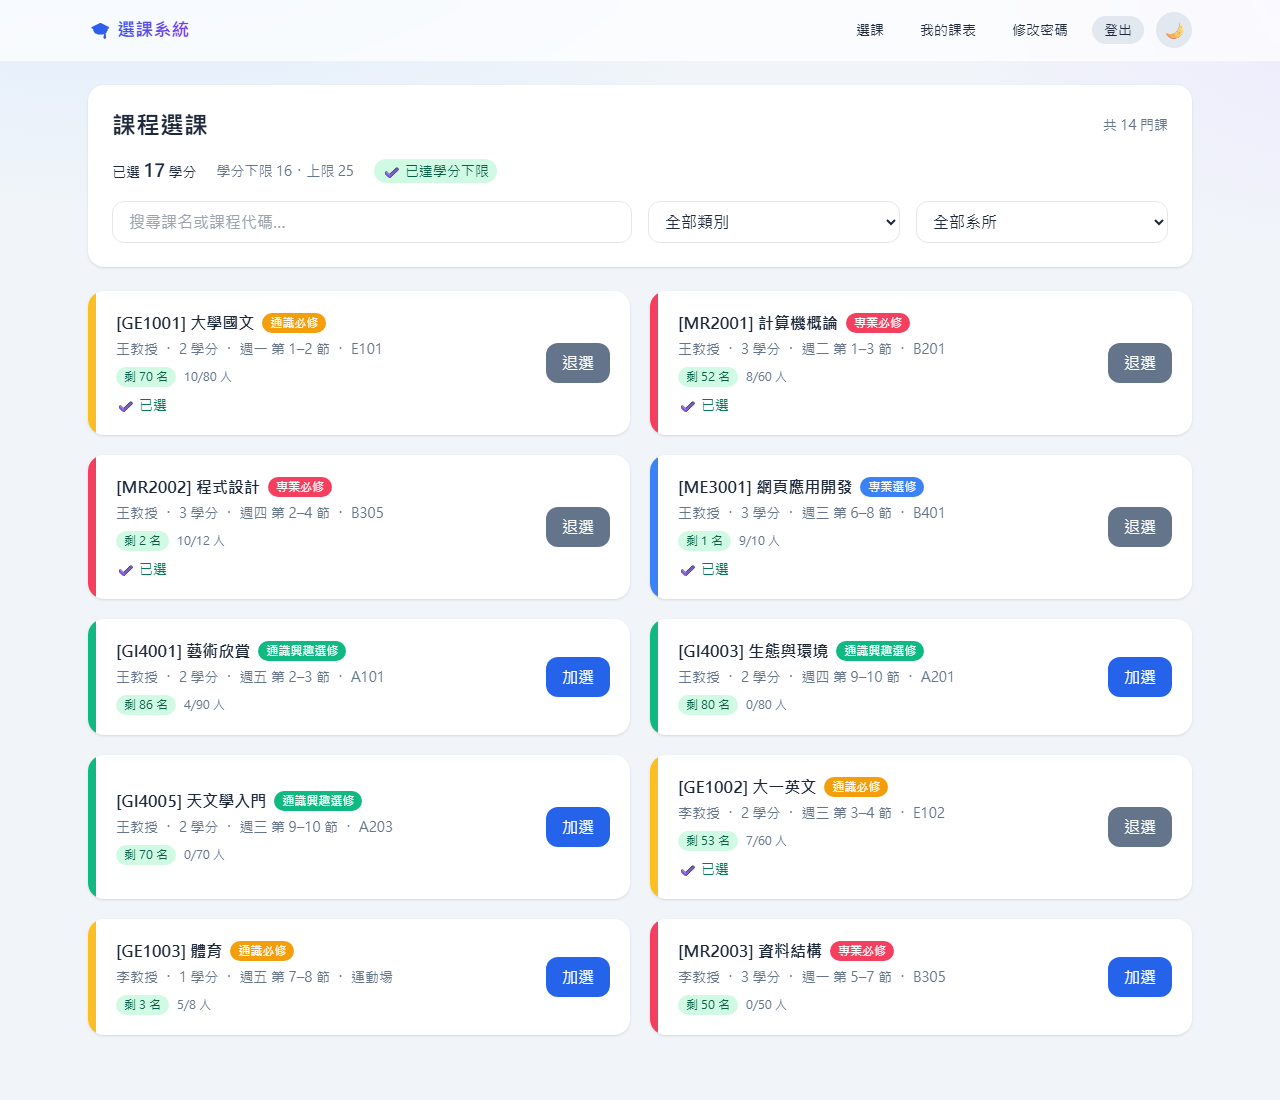
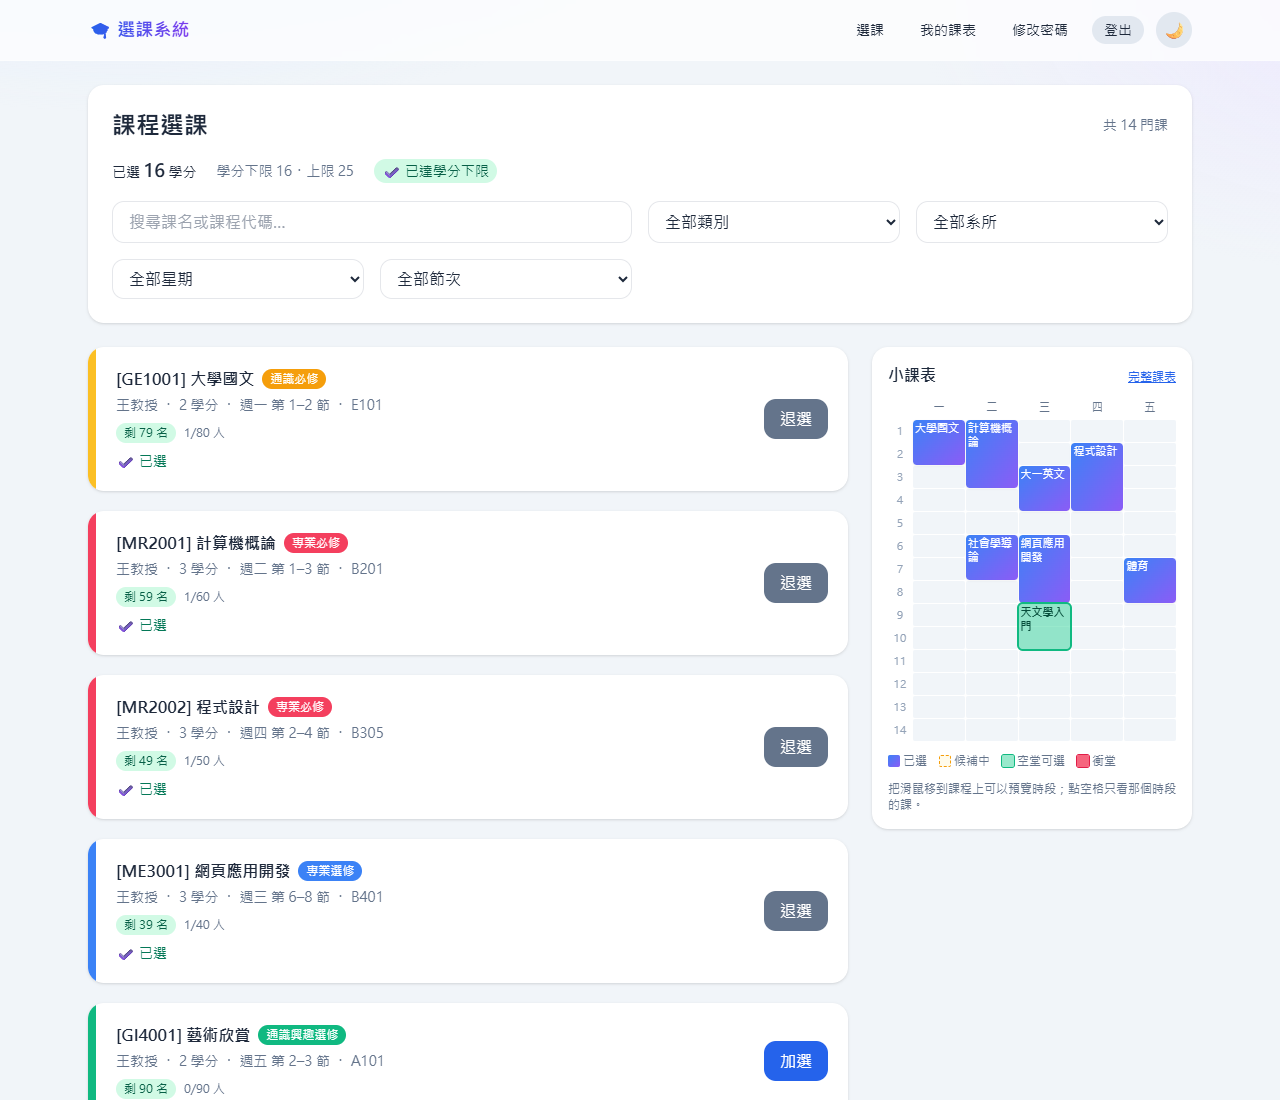
Add mini timetable and weekday/period filters to course selection
The course list now has a small weekly timetable beside it showing
enrolled and waitlisted courses. Hovering a course previews its time
slot (green when free, red when it clashes), clicking an empty slot
filters the list to that weekday and period, and clicking a course
block scrolls to its card. New weekday and period dropdowns filter
the list directly.

diff --git a/courses/templates/courses/course_list.html b/courses/templates/courses/course_list.html
@@ -31,9 +31,9 @@
       </div>
     </div>
 
-    <div class="grid md:grid-cols-4 gap-4">
+    <div class="grid grid-cols-2 md:grid-cols-4 gap-4">
       <input id="search" type="text" placeholder="搜尋課名或課程代碼…"
-             class="md:col-span-2 border dark:border-slate-600 dark:bg-slate-700 rounded-xl px-4 py-2 focus:outline-none focus:ring-2 focus:ring-blue-500">
+             class="col-span-2 border dark:border-slate-600 dark:bg-slate-700 rounded-xl px-4 py-2 focus:outline-none focus:ring-2 focus:ring-blue-500">
       <select id="filter-category"
               class="border dark:border-slate-600 dark:bg-slate-700 rounded-xl px-3 py-2">
         <option value="">全部類別</option>
@@ -49,6 +49,24 @@
         {% if group.grouper %}<option value="{{ group.grouper }}">{{ group.grouper }}</option>{% endif %}
         {% endfor %}
       </select>
+      {# 星期與節次：點小課表的空格也會自動帶入 #}
+      <select id="filter-weekday" aria-label="星期"
+              class="border dark:border-slate-600 dark:bg-slate-700 rounded-xl px-3 py-2">
+        <option value="">全部星期</option>
+        {% for day, label in weekday_labels %}
+        <option value="{{ day }}">{{ label }}</option>
+        {% endfor %}
+      </select>
+      <select id="filter-period" aria-label="節次"
+              class="border dark:border-slate-600 dark:bg-slate-700 rounded-xl px-3 py-2">
+        <option value="">全部節次</option>
+        {% for period in periods %}
+        <option value="{{ period.number }}">第 {{ period.number }} 節{% if period.start %}（{{ period.start|time:"H:i" }}–{{ period.end|time:"H:i" }}）{% endif %}</option>
+        {% endfor %}
+      </select>
+      <div id="filter-clear-row" class="hidden col-span-2 flex items-center">
+        <button type="button" id="filter-clear" class="text-sm text-blue-600 dark:text-blue-400 underline">清除全部篩選</button>
+      </div>
     </div>
 
     <p id="empty-hint" class="hidden text-slate-500">沒有符合條件的課程。</p>
@@ -56,7 +74,9 @@
 
   <div id="toast-area" class="fixed top-24 right-4 z-50 space-y-2 w-80"></div>
 
-  <div id="course-list" class="grid md:grid-cols-2 gap-5">
+  <div class="grid lg:grid-cols-[minmax(0,1fr)_20rem] gap-6 items-start">
+
+  <div id="course-list" class="grid md:grid-cols-2 lg:grid-cols-1 gap-5">
     {% for course in courses %}
     <div id="course-{{ course.id }}"
          class="course-card scroll-mt-28 animate-fade-up card-hover relative overflow-hidden bg-white dark:bg-slate-800 rounded-2xl shadow p-5 pl-7 flex flex-wrap gap-4 justify-between items-center"
@@ -64,6 +84,10 @@
          data-code="{{ course.code }}"
          data-category="{{ course.get_category_display }}"
          data-department="{{ course.department }}"
+         data-weekday="{{ course.weekday }}"
+         data-start="{{ course.start_period }}"
+         data-end="{{ course.end_period }}"
+         data-status="{{ course.status }}"
          style="animation-delay: {{ forloop.counter0 }}0ms;">
       <span class="absolute left-0 top-0 bottom-0 w-2
         {% if course.category == 'ge_required' %}bg-amber-400
@@ -126,6 +150,59 @@
     {% endfor %}
   </div>
 
+  {# 小課表：已選與候補中的課程；手機上顯示在課程清單上方，電腦上固定在右側 #}
+  <aside id="mini-timetable" aria-labelledby="mini-title"
+         class="order-first lg:order-none lg:sticky lg:top-20 bg-white dark:bg-slate-800 rounded-2xl shadow p-4 space-y-3">
+    <div class="flex justify-between items-baseline">
+      <h2 id="mini-title" class="font-semibold">小課表</h2>
+      <a href="{% url 'my_timetable' %}" class="text-xs text-blue-600 dark:text-blue-400 underline">完整課表</a>
+    </div>
+
+    <div id="mini-grid" class="grid gap-px text-[11px]"
+         style="grid-template-columns: 1.5rem repeat({{ weekday_labels|length }}, minmax(0, 1fr)); grid-template-rows: 1.25rem repeat({{ periods|length }}, 1.375rem);">
+      {% for day, label in weekday_labels %}
+      <div class="text-center text-slate-500 dark:text-slate-400" style="grid-row: 1; grid-column: {{ day|add:1 }};">{{ label|slice:"1:" }}</div>
+      {% endfor %}
+
+      {% for period in periods %}
+      <div class="text-center leading-[1.375rem] tabular-nums text-slate-400"
+           style="grid-row: {{ period.number|add:1 }}; grid-column: 1;"
+           {% if period.start %}title="{{ period.start|time:'H:i' }}–{{ period.end|time:'H:i' }}"{% endif %}>{{ period.number }}</div>
+      {% for day, label in weekday_labels %}
+      <button type="button"
+              class="mini-slot rounded-sm bg-slate-100 dark:bg-slate-700/50 hover:bg-blue-100 dark:hover:bg-slate-600"
+              data-day="{{ day }}" data-period="{{ period.number }}"
+              style="grid-row: {{ period.number|add:1 }}; grid-column: {{ day|add:1 }};"
+              aria-label="{{ label }}第 {{ period.number }} 節：只顯示這個時段的課程"></button>
+      {% endfor %}
+      {% endfor %}
+
+      {% for course in mini_courses %}
+      <a href="#course-{{ course.id }}"
+         class="mini-block z-10 overflow-hidden rounded px-0.5 py-0.5 leading-tight
+                {% if course.status == 'enrolled' %}bg-gradient-to-br from-blue-500 to-violet-500 text-white shadow-sm
+                {% else %}border border-dashed border-amber-500 bg-amber-50 text-amber-800 dark:bg-amber-900/40 dark:text-amber-200{% endif %}"
+         data-day="{{ course.weekday }}" data-start="{{ course.start_period }}" data-end="{{ course.end_period }}"
+         data-status="{{ course.status }}"
+         style="grid-column: {{ course.weekday|add:1 }}; grid-row: {{ course.start_period|add:1 }} / {{ course.end_period|add:2 }};"
+         title="[{{ course.code }}] {{ course.name }}・{{ course.time_label }}{% if course.status == 'waiting' %}・候補第 {{ course.position }} 位{% endif %}">{{ course.name }}</a>
+      {% endfor %}
+
+      {# 滑鼠移到課程卡片上時，預覽該課程的時段 #}
+      <div id="mini-preview" class="hidden"></div>
+    </div>
+
+    <div class="flex flex-wrap gap-x-3 gap-y-1 text-xs text-slate-500 dark:text-slate-400">
+      <span><span class="inline-block w-3 h-3 align-[-2px] rounded-sm bg-gradient-to-br from-blue-500 to-violet-500"></span> 已選</span>
+      <span><span class="inline-block w-3 h-3 align-[-2px] rounded-sm border border-dashed border-amber-500 bg-amber-50 dark:bg-amber-900/40"></span> 候補中</span>
+      <span><span class="inline-block w-3 h-3 align-[-2px] rounded-sm bg-emerald-400/50 ring-1 ring-emerald-500"></span> 空堂可選</span>
+      <span><span class="inline-block w-3 h-3 align-[-2px] rounded-sm bg-rose-500/80 ring-1 ring-rose-600"></span> 衝堂</span>
+    </div>
+    <p class="text-xs text-slate-500 dark:text-slate-400">把滑鼠移到課程上可以預覽時段；點空格只看那個時段的課。</p>
+  </aside>
+
+  </div>
+
 </div>
 
 <script>
@@ -133,12 +210,18 @@
   const searchInput = document.getElementById("search");
   const categorySelect = document.getElementById("filter-category");
   const departmentSelect = document.getElementById("filter-department");
+  const weekdaySelect = document.getElementById("filter-weekday");
+  const periodSelect = document.getElementById("filter-period");
+  const clearButton = document.getElementById("filter-clear");
+  const filterInputs = [searchInput, categorySelect, departmentSelect, weekdaySelect, periodSelect];
   const emptyHint = document.getElementById("empty-hint");
 
   function applyFilter() {
     const keyword = searchInput.value.trim().toLowerCase();
     const category = categorySelect.value;
     const department = departmentSelect.value;
+    const weekday = weekdaySelect.value;
+    const period = Number(periodSelect.value);
     let visible = 0;
     document.querySelectorAll(".course-card").forEach((card) => {
       const matchKeyword = !keyword
@@ -146,16 +229,121 @@
         || card.dataset.code.toLowerCase().includes(keyword);
       const matchCategory = !category || card.dataset.category === category;
       const matchDept = !department || card.dataset.department === department;
-      const show = matchKeyword && matchCategory && matchDept;
+      const matchWeekday = !weekday || card.dataset.weekday === weekday;
+      // 跨多節的課，只要其中一節是所選節次就符合
+      const matchPeriod = !period
+        || (Number(card.dataset.start) <= period && period <= Number(card.dataset.end));
+      const show = matchKeyword && matchCategory && matchDept && matchWeekday && matchPeriod;
       card.classList.toggle("hidden", !show);
       if (show) visible++;
     });
     emptyHint.classList.toggle("hidden", visible > 0);
+    document.getElementById("filter-clear-row")
+      .classList.toggle("hidden", filterInputs.every((el) => !el.value.trim()));
+    markSelectedSlots();
+  }
+
+  function clearFilters() {
+    filterInputs.forEach((el) => { el.value = ""; });
+    applyFilter();
   }
 
   searchInput.addEventListener("input", applyFilter);
-  categorySelect.addEventListener("change", applyFilter);
-  departmentSelect.addEventListener("change", applyFilter);
+  [categorySelect, departmentSelect, weekdaySelect, periodSelect].forEach((el) =>
+    el.addEventListener("change", applyFilter));
+  clearButton.addEventListener("click", clearFilters);
+
+  // ---------- 小課表 ----------
+
+  const MATCHED_SLOT = ["!bg-blue-200", "dark:!bg-blue-800/70"];
+  const SELECTED_SLOT = ["ring-2", "ring-blue-500"];
+
+  // 在小課表上標出篩選的時段：只選星期標整欄、只選節次標整列、兩個都選標單一格
+  function markSelectedSlots() {
+    const day = Number(weekdaySelect.value);
+    const period = Number(periodSelect.value);
+    document.querySelectorAll(".mini-slot").forEach((slot) => {
+      const matched = Boolean(day || period)
+        && (!day || Number(slot.dataset.day) === day)
+        && (!period || Number(slot.dataset.period) === period);
+      const selected = Boolean(day && period) && matched;
+      MATCHED_SLOT.forEach((cls) => slot.classList.toggle(cls, matched));
+      SELECTED_SLOT.forEach((cls) => slot.classList.toggle(cls, selected));
+      slot.setAttribute("aria-pressed", selected ? "true" : "false");
+    });
+  }
+
+  const PREVIEW_STYLES = {
+    free: "bg-emerald-400/50 ring-2 ring-emerald-500 text-emerald-900 dark:text-emerald-50",
+    clash: "bg-rose-500/80 ring-2 ring-rose-600 text-white",
+    self: "ring-2 ring-offset-1 ring-blue-400 dark:ring-offset-slate-800",
+    waiting: "ring-2 ring-offset-1 ring-amber-400 dark:ring-offset-slate-800",
+  };
+  let previewCard = null;
+
+  // 在小課表上預覽一門課的時段：空堂顯示綠色，和已選課程重疊顯示紅色
+  function showPreview(card) {
+    const preview = document.getElementById("mini-preview");
+    const day = Number(card.dataset.weekday);
+    const start = Number(card.dataset.start);
+    const end = Number(card.dataset.end);
+    let kind = card.dataset.status === "enrolled" ? "self"
+      : card.dataset.status === "waiting" ? "waiting" : "free";
+    if (kind === "free") {
+      const clash = [...document.querySelectorAll('.mini-block[data-status="enrolled"]')].some((block) =>
+        Number(block.dataset.day) === day
+        && Number(block.dataset.start) <= end && start <= Number(block.dataset.end));
+      if (clash) kind = "clash";
+    }
+    preview.className = "pointer-events-none z-20 overflow-hidden rounded px-0.5 py-0.5 leading-tight font-semibold "
+      + PREVIEW_STYLES[kind];
+    preview.style.gridColumn = String(day + 1);
+    preview.style.gridRow = `${start + 1} / ${end + 2}`;
+    preview.textContent = kind === "clash" ? "衝堂" : kind === "free" ? card.dataset.name : "";
+    previewCard = card;
+  }
+
+  function hidePreview() {
+    document.getElementById("mini-preview").className = "hidden";
+    previewCard = null;
+  }
+
+  document.addEventListener("mouseover", (event) => {
+    const card = event.target.closest(".course-card");
+    if (card === previewCard) return;
+    if (card) showPreview(card);
+    else hidePreview();
+  });
+  document.addEventListener("focusin", (event) => {
+    const card = event.target.closest(".course-card");
+    if (card && card !== previewCard) showPreview(card);
+  });
+  document.addEventListener("focusout", (event) => {
+    if (previewCard && !previewCard.contains(event.relatedTarget)) hidePreview();
+  });
+
+  document.addEventListener("click", (event) => {
+    // 點空格：帶入該格的星期與節次篩選，再點一次取消
+    const slot = event.target.closest(".mini-slot");
+    if (slot) {
+      const same = weekdaySelect.value === slot.dataset.day && periodSelect.value === slot.dataset.period;
+      weekdaySelect.value = same ? "" : slot.dataset.day;
+      periodSelect.value = same ? "" : slot.dataset.period;
+      applyFilter();
+      return;
+    }
+    // 點課程色塊：捲到該課程卡片；卡片被篩選藏起來時先清除篩選
+    const block = event.target.closest(".mini-block");
+    if (block) {
+      const card = document.querySelector(block.getAttribute("href"));
+      if (!card) return;
+      event.preventDefault();
+      if (card.classList.contains("hidden")) clearFilters();
+      card.scrollIntoView({ behavior: "smooth", block: "center" });
+      card.classList.add("ring-4", "ring-blue-400");
+      setTimeout(() => card.classList.remove("ring-4", "ring-blue-400"), 1500);
+    }
+  });
 
   function showToast(message, ok) {
     const area = document.getElementById("toast-area");
@@ -177,12 +365,17 @@
     const res = await fetch(window.location.pathname);
     if (!res.ok) return;
     const doc = new DOMParser().parseFromString(await res.text(), "text/html");
-    for (const id of ["course-list", "enroll-summary"]) {
+    const hoveredId = previewCard && previewCard.id;
+    for (const id of ["course-list", "enroll-summary", "mini-timetable"]) {
       const fresh = doc.getElementById(id);
       if (fresh) document.getElementById(id).replaceWith(fresh);
     }
     document.querySelectorAll(".course-card").forEach((card) => card.classList.remove("animate-fade-up"));
     applyFilter();
+    // 剛按下按鈕的卡片還在滑鼠下方時，立刻顯示它在新課表上的位置
+    previewCard = null;
+    const hovered = hoveredId && document.getElementById(hoveredId);
+    if (hovered && hovered.matches(":hover")) showPreview(hovered);
   }
 
   // 用事件委派處理按鈕，清單重新載入後不需要重新綁定

diff --git a/courses/tests.py b/courses/tests.py
@@ -362,6 +362,45 @@ class CourseListTests(BaseTestCase):
     def test_below_minimum_hint(self):
         self.assertContains(self.client.get(reverse("course_list")), "還差 16 學分達到下限")
 
+    def test_mini_timetable_shows_enrolled_and_waiting_courses(self):
+        enrolled = make_course("C1", self.teacher, weekday=2, start=3, end=4)
+        full = make_course("C2", make_teacher("t2"), weekday=4, start=6, end=8,
+                           capacity=1, room=make_room("R2"))
+        make_course("C3", make_teacher("t3"), weekday=5, room=make_room("R3"))
+        Enrollment.objects.create(student=self.student, course=enrolled)
+        Enrollment.objects.create(student=make_student("s2"), course=full)
+        WaitlistEntry.objects.create(student=self.student, course=full)
+
+        response = self.client.get(reverse("course_list"))
+        self.assertEqual(
+            [(c.code, c.status) for c in response.context["mini_courses"]],
+            [("C1", "enrolled"), ("C2", "waiting")],
+        )
+        # 色塊放在對應的星期欄與節次列（第一欄是節次、第一列是星期）
+        self.assertContains(response, "grid-column: 3; grid-row: 4 / 6;")
+        self.assertContains(response, "grid-column: 5; grid-row: 7 / 10;")
+        self.assertContains(response, 'class="mini-block', count=2)
+
+    def test_mini_timetable_has_a_slot_for_every_period(self):
+        response = self.client.get(reverse("course_list"))
+        self.assertContains(response, 'class="mini-slot', count=5 * 14)
+        self.assertContains(response, 'data-day="5" data-period="14"')
+        # 第一節的上課時間放在節次的提示文字
+        self.assertContains(response, 'title="08:10–09:00"')
+
+    def test_weekday_and_period_filter_options(self):
+        response = self.client.get(reverse("course_list"))
+        self.assertContains(response, '<option value="5">週五</option>')
+        self.assertContains(response, "第 1 節（08:10–09:00）</option>")
+        # 第十節沒有固定時間，只顯示節次
+        self.assertContains(response, "第 10 節</option>")
+
+    def test_course_cards_carry_time_for_preview(self):
+        make_course("C1", self.teacher, weekday=3, start=2, end=4)
+        response = self.client.get(reverse("course_list"))
+        for attr in ['data-weekday="3"', 'data-start="2"', 'data-end="4"', 'data-status="open"']:
+            self.assertContains(response, attr, count=1)
+
 
 class PermissionTests(BaseTestCase):
     def setUp(self):

diff --git a/courses/views.py b/courses/views.py
@@ -43,6 +43,15 @@ def _course_list_url(user):
     return "admin_courses" if is_admin(user) else "teacher_courses"
 
 
+def _period_rows():
+    """課表每一列的節次與上下課時間；第十節沒有固定時間，不顯示。"""
+    return [
+        {"number": p, "start": services.period_start(p), "end": services.period_end(p)}
+        if p not in services.UNTIMED_PERIODS else {"number": p}
+        for p in services.PERIODS
+    ]
+
+
 # ---------- 登入與密碼 ----------
 
 def login_view(request):
@@ -129,11 +138,6 @@ def my_timetable(request):
         {"entry": entry, "position": entry.position}
         for entry in student.waitlist_entries.select_related("course")
     ]
-    periods = [
-        {"number": p, "start": services.period_start(p), "end": services.period_end(p)}
-        if p not in services.UNTIMED_PERIODS else {"number": p}
-        for p in services.PERIODS
-    ]
     return render(request, "courses/timetable.html", {
         "enrollments": enrollments,
         "summary": services.credit_summary(student, courses),
@@ -143,7 +147,7 @@ def my_timetable(request):
         "waitlist": waitlist,
         "weekdays": [day for day, _ in WEEKDAYS],
         "weekday_labels": WEEKDAYS,
-        "periods": periods,
+        "periods": _period_rows(),
     })
 
 
@@ -191,6 +195,10 @@ def course_list(request):
 
     return render(request, "courses/course_list.html", {
         "courses": courses,
+        # 選課頁旁的小課表：已選與候補中的課程
+        "mini_courses": [c for c in courses if c.status in ("enrolled", "waiting")],
+        "weekday_labels": WEEKDAYS,
+        "periods": _period_rows(),
         "summary": services.credit_summary(student, current),
         "window_open": setting.enrollment_open,
         "closed_message": setting.closed_message(),

diff --git a/README.md b/README.md
@@ -8,7 +8,7 @@
 
 **線上展示：** https://course-system-681r.onrender.com/
 
-![選課頁面：每門課顯示剩餘名額、已選狀態與學分摘要](docs/images/course-list.png)
+![選課頁面：每門課顯示剩餘名額與已選狀態，右側小課表預覽滑鼠所指課程的時段](docs/images/course-list.png)
 
 ## 目錄
 
@@ -43,7 +43,8 @@
 
 ### 學生
 
-- **選課**：用關鍵字、類別或系所找課。每門課都會顯示剩餘名額、是否衝堂、是否符合修課資格。加選和退選不用重新整理頁面。
+- **選課**：用關鍵字、類別、系所、星期或節次找課。每門課都會顯示剩餘名額、是否衝堂、是否符合修課資格。加選和退選不用重新整理頁面。
+- **小課表**：選課頁旁邊有一張小課表，顯示已選和候補中的課。滑鼠移到課程上會預覽它的時段，綠色代表空堂、紅色代表衝堂；點小課表的空格，會自動篩選出那個星期、那一節的課。
 - **候補**：額滿的課可以登記候補。有名額空出時，系統會依順位自動加選。
 - **我的課表**：包含週課表（附每節上課時間）與四類學分統計。學分未達下限時會提醒。
 - **匯出課表**：可以下載行事曆檔，匯入 Google 日曆、Outlook 或手機行事曆；也可以直接列印。
